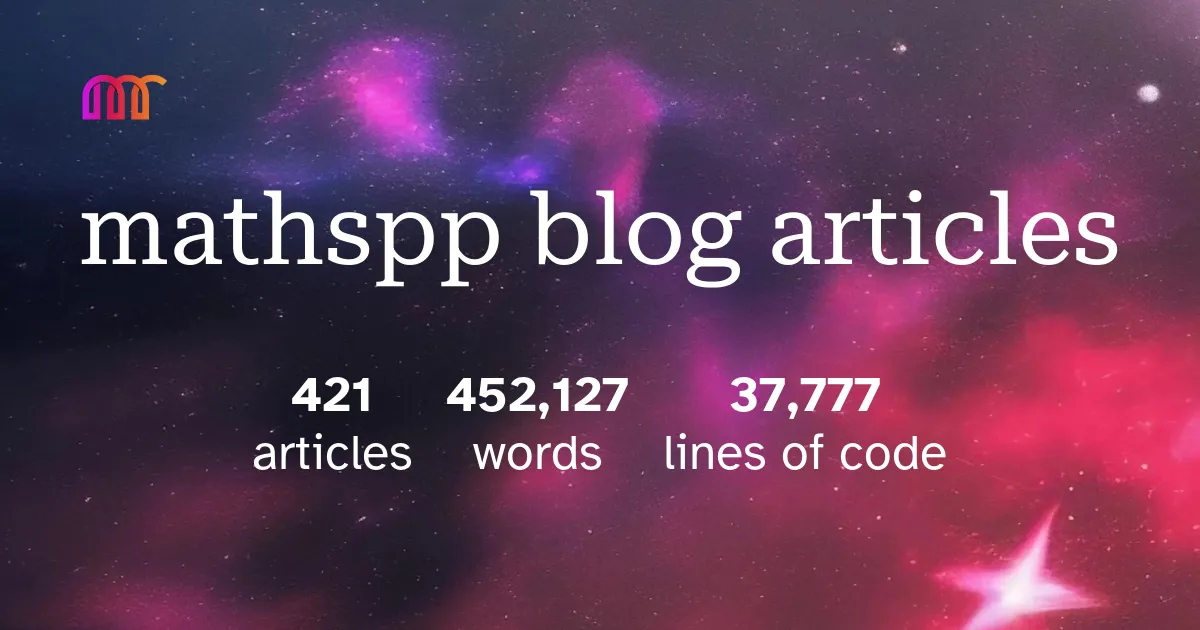
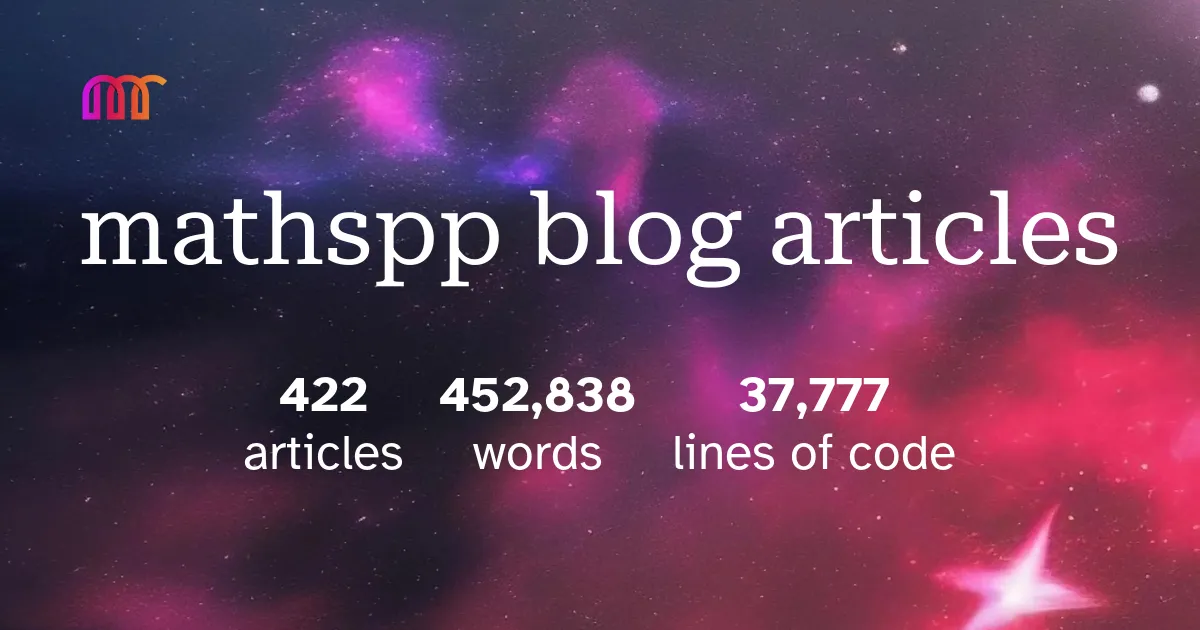
Add post about PSF CSA.

diff --git a/pages/02.blog/accepting-the-psf-community-service-award/item.md b/pages/02.blog/accepting-the-psf-community-service-award/item.md
@@ -1,0 +1,68 @@
+I am truly honoured to have been awarded a PSF Community Service Award in Q2 of 2025.
+
+===
+
+
+## What's the PSF Community Service Award?
+
+According to the PSF website,
+
+ > “The PSF Community Service Awards are a formal way for the PSF Board of Directors to offer recognition of work which, in its opinion, significantly improves the Foundation's fulfillment of its mission and benefits the broader Python community.”
+
+If you [scroll down to August 2025](https://www.python.org/community/awards/psf-awards/#august-20250), you will read that I was awarded for
+
+ > “contribution to the international Python community through leadership of PyCons in Portugal, speaking regularly at PyCons throughout the world, and contributing to the leadership of the Python community in Europe.”
+
+
+## How I feel about the award
+
+### Surprised
+
+I was _literally_ taken by surprise when I got the award.
+Nominations for the award are made confidentially and no one had told me anything (as that's the point), so I didn't know I was being considered for a Community Service Award.
+
+If that's your cup of tea, you can read a small anecdote regarding how I got the news that I was getting the award on LinkedIn:
+
+<iframe src="https://www.linkedin.com/embed/feed/update/urn:li:share:7362159728019337218?collapsed=1" height="262" width="504" frameborder="0" allowfullscreen="" title="Embedded post"></iframe>
+
+(Also on [BlueSky](https://bsky.app/profile/mathspp.com/post/3lwhb3a3gzk2d) and [X/Twitter](https://x.com/mathsppblog/status/1956393238568312888).)
+
+### Validated
+
+Receiving this award made me inexplicably happy.
+I attended my first in-person Python conference in 2022 (EuroPython 2022) and since then my involvement with the community has grown exponentially.
+By the time I attended my first in-person EuroPython I had already been writing about and teaching Python for a few years but attending EuroPython was objectively a life-changing experience.
+
+Attending Python conferences _in person_ meant that I was connecting with the human beings that power the language and it led me to the realisation that there is a _community_ around the Python language.
+I had heard about this “Python community” and I had heard Brett Cannon's “I came for the [Python] language but I stayed for the community.”, but the truth is that none of this makes any sense until you experience it firsthand.
+
+Over the past few years, my appreciation for the community has been growing side by side with my involvement in the community, mostly volunteering at EuroPython and PyCon Portugal and [speaking at a number of different PyCons](/talks).
+I am not particularly good with feelings[^1] so I have a really hard time finding the correct words to describe what it is that I feel when I'm at a Python conference, or when I'm helping organise EuroPython, but “sense of belonging” is a big thing.
+
+[^1]: I am working on it.
+
+So, as I continue to write about Python online, share Python with everyone I cross paths with, and invest more and more time into EuroPython and PyCon Portugal, I felt an incredible sense of validation when I received the PSF email saying I was receiving the Community Service Award.
+I don't know if this is weird to say or not, but I felt understood and validated.
+I felt like the award validated my passion for the community and the time I devoted for the community.
+I think that's it.
+
+### Honoured
+
+But boy oh boy, the award is also an incredible honour.
+
+If you [open the page that lists previous recipients of the awards](https://www.python.org/community/awards/psf-awards/), you will see a very big list of incredible people that do 10 or 100 times more for the community than what I do.
+I am humbled as I go through the list and read the names of the people that got the award before me.
+Some of the names I recognise instantly.
+Some of the names are completely new to me.
+But what all names have in common is that they have made very significant contributions to the Python community.
+
+I don't think I am insignificant.
+I honestly believe I have had, and continue to have, a net positive impact on the community.
+But damn, my contributions feel insignificant next to the others! 😄
+
+
+## What now?
+
+Now, I am even more motivated to keep contributing to the community.
+The award doesn't feel – and it's not supposed to feel – like the end of a journey.
+It's more like a sign on the side of the road telling me I'm going in the right direction!

diff --git a/pages/02.blog/00.tags/python/blog.md b/pages/02.blog/00.tags/python/blog.md
@@ -28,8 +28,8 @@ title: "Python blog articles"
 <table class="stats-table">
     <thead>
         <tr>
-            <th style="text-align: center;">297</th>
-            <th style="text-align: center;">360,278</th>
+            <th style="text-align: center;">298</th>
+            <th style="text-align: center;">360,989</th>
             <th style="text-align: center;">35,550</th>
         </tr>
     </thead>

diff --git a/pages/02.blog/00.tags/opinion/blog.md b/pages/02.blog/00.tags/opinion/blog.md
@@ -28,8 +28,8 @@ title: "Opinion blog articles"
 <table class="stats-table">
     <thead>
         <tr>
-            <th style="text-align: center;">8</th>
-            <th style="text-align: center;">15,932</th>
+            <th style="text-align: center;">9</th>
+            <th style="text-align: center;">16,643</th>
             <th style="text-align: center;">368</th>
         </tr>
     </thead>

diff --git a/pages/02.blog/00.tags/_stats/features.md b/pages/02.blog/00.tags/_stats/features.md
@@ -7,8 +7,8 @@ class: offset-box
 <table class="stats-table">
     <thead>
         <tr>
-            <th style="text-align: center;">421</th>
-            <th style="text-align: center;">452,127</th>
+            <th style="text-align: center;">422</th>
+            <th style="text-align: center;">452,838</th>
             <th style="text-align: center;">37,777</th>
         </tr>
     </thead>

diff --git a/pages/02.blog/blog.md b/pages/02.blog/blog.md
@@ -3,8 +3,8 @@
 <table class="stats-table">
     <thead>
         <tr>
-            <th style="text-align: center;">421</th>
-            <th style="text-align: center;">452,127</th>
+            <th style="text-align: center;">422</th>
+            <th style="text-align: center;">452,838</th>
             <th style="text-align: center;">37,777</th>
         </tr>
     </thead>
